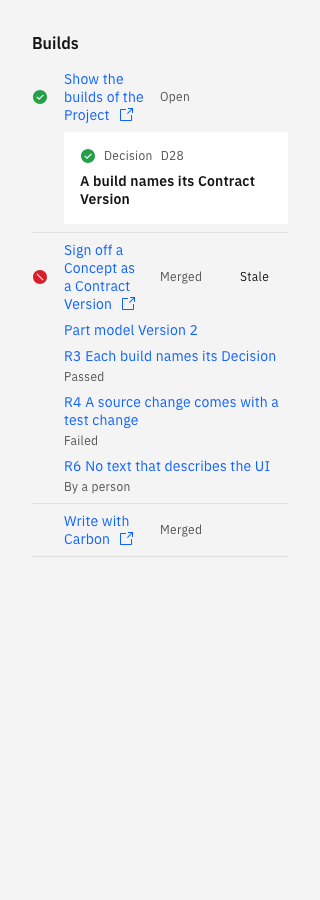
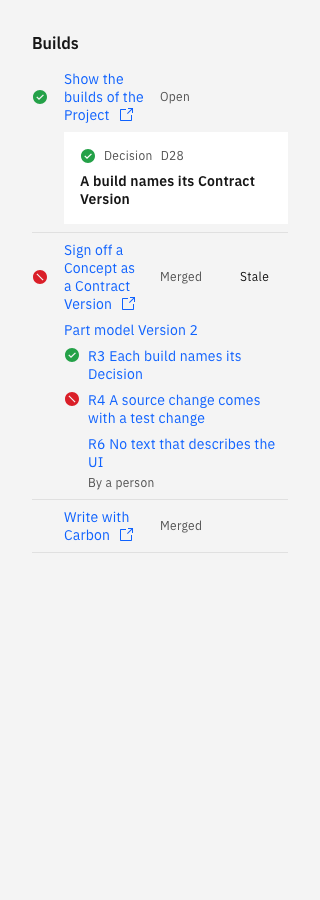
fix(gate): read each check, and show a failed Guardrail with a sign
The gate reads each page of the check runs, so a failed run after the
first 100 counts. A skipped check waits, it does not pass. When GitHub
does not answer, the gate still gives its result and each Guardrail
that names a check waits.

The Build section shows a passed and a failed Guardrail with the signs
of the gate. A Guardrail with no result keeps its word.

Refs #339
Decision: glue/D59

Changed region(s): [[0.1875, 0.3733, 0.875, 0.6222], [0.5, 0.56, 0.625, 0.5911]]

diff --git a/src/design-system/builds.tsx b/src/design-system/builds.tsx
@@ -27,7 +27,7 @@ export type BuildGuardrail = {
   id: string
   title: string
   href: string
-  state: keyof typeof guardrailStates
+  state: keyof typeof guardrailSigns | keyof typeof guardrailWords
 }
 
 // One build: a pull request that stays in GitHub, with its address there.
@@ -47,28 +47,59 @@ export type BuildRow = {
 
 const states = { open: 'Open', merged: 'Merged' } as const
 
-// What the gate saw of a Guardrail: the result of its check, or that a
-// person enforces it.
-const guardrailStates = {
-  passed: 'Passed',
-  failed: 'Failed',
-  waiting: 'Waiting',
-  'by-person': 'By a person',
-} as const
-
 // Holds or breaks, with the signs of Trust.
 const gateSigns = {
   holds: { ...signs.solid, word: 'Holds' },
   breaks: { ...signs['not-ready'], word: 'Breaks' },
 }
 
-function GateSign({ gate }: { gate: keyof typeof gateSigns }) {
-  const { word, Glyph, className } = gateSigns[gate]
+// The result of the check of a Guardrail, with the signs of the gate.
+const guardrailSigns = {
+  passed: { ...gateSigns.holds, word: 'Passed' },
+  failed: { ...gateSigns.breaks, word: 'Failed' },
+}
 
+// A Guardrail with no result: its check has not ended, or a person enforces
+// it.
+const guardrailWords = {
+  waiting: 'Waiting',
+  'by-person': 'By a person',
+} as const
+
+function Sign({ word, Glyph, className }: (typeof gateSigns)['holds']) {
   return (
     <Glyph aria-label={word} className={className}>
       <title>{word}</title>
     </Glyph>
+  )
+}
+
+// One Guardrail: the sign of its result, its link, and its word when it has
+// no result. The slot of the sign keeps its width when there is none.
+function GuardrailItem({
+  guardrail,
+  onOpen,
+}: {
+  guardrail: BuildGuardrail
+  onOpen?: (event: MouseEvent<HTMLAnchorElement>) => void
+}) {
+  const { id, title, href, state } = guardrail
+  const hasResult = state === 'passed' || state === 'failed'
+
+  return (
+    <li className={styles.guardrail}>
+      <span className={styles.result}>
+        {hasResult && <Sign {...guardrailSigns[state]} />}
+      </span>
+      <span className={styles.guardrailName}>
+        <Link href={href} onClick={onOpen}>
+          {id} {title}
+        </Link>
+        {!hasResult && (
+          <span className={styles.label}>{guardrailWords[state]}</span>
+        )}
+      </span>
+    </li>
   )
 }
 
@@ -112,7 +143,7 @@ export function Builds({
             ({ number, url, title, state, stale, gate, ...named }) => (
               <li key={number} className={styles.build}>
                 <span className={styles.sign}>
-                  {gate && <GateSign gate={gate} />}
+                  {gate && <Sign {...gateSigns[gate]} />}
                 </span>
                 <Link
                   href={url}
@@ -156,20 +187,14 @@ export function Builds({
                   {named.guardrails.length > 0 && (
                     <ul aria-label="Guardrails" className={styles.guardrails}>
                       {named.guardrails.map((guardrail) => (
-                        <li key={guardrail.id} className={styles.guardrail}>
-                          <Link
-                            href={guardrail.href}
-                            onClick={
-                              onOpenGuardrail &&
-                              ((event) => onOpenGuardrail(guardrail, event))
-                            }
-                          >
-                            {guardrail.id} {guardrail.title}
-                          </Link>{' '}
-                          <span className={styles.label}>
-                            {guardrailStates[guardrail.state]}
-                          </span>
-                        </li>
+                        <GuardrailItem
+                          key={guardrail.id}
+                          guardrail={guardrail}
+                          onOpen={
+                            onOpenGuardrail &&
+                            ((event) => onOpenGuardrail(guardrail, event))
+                          }
+                        />
                       ))}
                     </ul>
                   )}

diff --git a/src/github/client.ts b/src/github/client.ts
@@ -40,7 +40,7 @@ export type GithubClient = {
     repository: string,
     text: string,
   ) => Promise<PullRequest[]>
-  // The checks on the head commit of the pull request.
+  // Each check on the head commit of the pull request.
   listCheckRuns: (repository: string, number: number) => Promise<CheckRun[]>
 }
 
@@ -81,8 +81,10 @@ type ListedCheckRun = {
   conclusion: string | null
 }
 
-// The conclusions of a check that GitHub takes as passed.
-const PASSED = ['success', 'neutral', 'skipped']
+// The conclusions of a check that count as passed.
+const PASSED = ['success', 'neutral']
+// A check that GitHub skipped checked nothing: it waits.
+const SKIPPED = 'skipped'
 
 // A pull request that was closed with no merge is not a build.
 function toPullRequests(listed: ListedPullRequest[]): PullRequest[] {
@@ -191,13 +193,21 @@ export function createGithubClient(): GithubClient {
       const pull = await fetchGithub(`/repos/${repository}/pulls/${number}`)
       await validateResponse(pull, 'read pull request')
       const { head }: { head: { sha: string } } = await pull.json()
-      const response = await fetchGithub(
-        `/repos/${repository}/commits/${head.sha}/check-runs?per_page=${PAGE_SIZE}`,
-      )
-      await validateResponse(response, 'list check runs')
-      const listed: { check_runs: ListedCheckRun[] } = await response.json()
-      return listed.check_runs.map(({ name, status, conclusion }) => {
-        if (status !== 'completed') return { name, state: 'waiting' }
+      const listed: ListedCheckRun[] = []
+      // A page that is not full is the last one.
+      for (let page = 1, full = true; full; page += 1) {
+        const response = await fetchGithub(
+          `/repos/${repository}/commits/${head.sha}/check-runs?per_page=${PAGE_SIZE}&page=${page}`,
+        )
+        await validateResponse(response, 'list check runs')
+        const found: { check_runs: ListedCheckRun[] } = await response.json()
+        listed.push(...found.check_runs)
+        full = found.check_runs.length === PAGE_SIZE
+      }
+      return listed.map(({ name, status, conclusion }) => {
+        if (status !== 'completed' || conclusion === SKIPPED) {
+          return { name, state: 'waiting' }
+        }
         const passed = conclusion !== null && PASSED.includes(conclusion)
         return { name, state: passed ? 'passed' : 'failed' }
       })

diff --git a/src/github/client.test.ts b/src/github/client.test.ts
@@ -156,15 +156,17 @@ describe('searchPullRequests', () => {
 describe('listCheckRuns', () => {
   const PULL_URL = `${REPOSITORY_URL}/pulls/12`
   const CHECKS_URL = `${REPOSITORY_URL}/commits/abc123/check-runs?per_page=100`
+  const passed = { name: 'verify', status: 'completed', conclusion: 'success' }
 
   it('reads the checks on the head commit of the pull request, each with its state', async () => {
     stubGithub({
       [`GET ${PULL_URL}`]: [200, { head: { sha: 'abc123' } }],
-      [`GET ${CHECKS_URL}`]: [
+      [`GET ${CHECKS_URL}&page=1`]: [
         200,
         {
           check_runs: [
-            { name: 'verify', status: 'completed', conclusion: 'success' },
+            passed,
+            { name: 'docs', status: 'completed', conclusion: 'neutral' },
             { name: 'ai-review', status: 'completed', conclusion: 'skipped' },
             { name: 'audit', status: 'completed', conclusion: 'failure' },
             { name: 'release', status: 'in_progress', conclusion: null },
@@ -180,9 +182,41 @@ describe('listCheckRuns', () => {
 
     expect(checks).toEqual([
       { name: 'verify', state: 'passed' },
-      { name: 'ai-review', state: 'passed' },
+      { name: 'docs', state: 'passed' },
+      { name: 'ai-review', state: 'waiting' },
       { name: 'audit', state: 'failed' },
       { name: 'release', state: 'waiting' },
+    ])
+  })
+
+  it('reads each page of the checks, so a check after the first 100 counts', async () => {
+    stubGithub({
+      [`GET ${PULL_URL}`]: [200, { head: { sha: 'abc123' } }],
+      [`GET ${CHECKS_URL}&page=1`]: [
+        200,
+        { check_runs: Array.from({ length: 100 }, () => passed) },
+      ],
+      [`GET ${CHECKS_URL}&page=2`]: [
+        200,
+        {
+          check_runs: [
+            { name: 'audit', status: 'completed', conclusion: 'failure' },
+          ],
+        },
+      ],
+    })
+
+    const checks = await createGithubClient().listCheckRuns(
+      'timschoch/glue',
+      12,
+    )
+
+    expect(checks).toHaveLength(101)
+    expect(checks[100]).toEqual({ name: 'audit', state: 'failed' })
+    expect(calls.map(({ url }) => url)).toEqual([
+      PULL_URL,
+      `${CHECKS_URL}&page=1`,
+      `${CHECKS_URL}&page=2`,
     ])
   })
 

diff --git a/src/design-system/builds.test.tsx b/src/design-system/builds.test.tsx
@@ -138,11 +138,15 @@ describe('Builds', () => {
     const first = within(guardrails[0]).getByRole('link')
     await userEvent.click(first)
 
-    expect(guardrails.map((guardrail) => guardrail.textContent)).toEqual([
-      'R1 Tests come first Passed',
-      'R2 No raw colour Failed',
-      'R3 No query over 200ms Waiting',
-      'R4 No text that describes the UI By a person',
+    expect(
+      guardrails.map(
+        (guardrail) => within(guardrail).getByRole('link').textContent,
+      ),
+    ).toEqual([
+      'R1 Tests come first',
+      'R2 No raw colour',
+      'R3 No query over 200ms',
+      'R4 No text that describes the UI',
     ])
     expect(first.getAttribute('href')).toBe('#R1')
     expect(onOpenGuardrail).toHaveBeenCalledWith(
@@ -152,6 +156,24 @@ describe('Builds', () => {
     expect(
       within(row(OPEN.title)).queryByRole('list', { name: 'Guardrails' }),
     ).toBeNull()
+  })
+
+  it('shows a passed and a failed Guardrail with the signs of the gate, and the other states as a word', () => {
+    render(<Builds builds={[OLD]} />)
+
+    const [passed, failed, waiting, byPerson] = within(
+      screen.getByRole('list', { name: 'Guardrails' }),
+    ).getAllByRole('listitem')
+    const holds = within(row(OLD.title)).getByRole('img', { name: 'Breaks' })
+
+    within(passed).getByRole('img', { name: 'Passed' })
+    expect(
+      within(failed).getByRole('img', { name: 'Failed' }).getAttribute('class'),
+    ).toBe(holds.getAttribute('class'))
+    expect(within(waiting).queryByRole('img')).toBeNull()
+    within(waiting).getByText('Waiting')
+    expect(within(byPerson).queryByRole('img')).toBeNull()
+    within(byPerson).getByText('By a person')
   })
 
   it('says that there are no builds, or why', () => {

diff --git a/src/db/gate.test.ts b/src/db/gate.test.ts
@@ -16,7 +16,7 @@ import {
 import { addProjectReference, setProductRepository } from './projects.ts'
 import * as schema from './schema.ts'
 import type { CheckRun } from '../github/client.ts'
-import { createFakeGithub } from '../test/github.ts'
+import { createFakeGithub, failingGithub } from '../test/github.ts'
 
 let client: PGlite
 let db: ReturnType<typeof drizzle<typeof schema>>
@@ -352,6 +352,23 @@ describe('validateBuild', () => {
       ])
 
       expect(gate.guardrails[0].state).toBe('waiting')
+    })
+
+    it('gives its result and waits for each check when GitHub does not answer', async () => {
+      const gate = await validateBuild(
+        db,
+        failingGithub,
+        'glue',
+        toBuild('Contract: videos@2'),
+        NOW,
+      )
+
+      expect(gate.result).toBe('holds')
+      expect(gate.reasons).toEqual([])
+      expect(gate.guardrails.map(({ id, state }) => [id, state])).toEqual([
+        ['R1', 'waiting'],
+        ['R2', 'by-person'],
+      ])
     })
 
     it('reads the checks of the build from GitHub', async () => {

diff --git a/src/db/gate.ts b/src/db/gate.ts
@@ -91,6 +91,7 @@ function findCheckState(name: string, checks: CheckRun[]): GuardrailState {
 
 // The Guardrails of the Contract Version, each with its state on the head
 // commit of the build. GitHub is asked only when a Guardrail names a check.
+// When GitHub does not answer, each of these Guardrails waits.
 async function listGuardrails(
   github: GithubClient,
   build: ValidatedBuild,
@@ -104,7 +105,9 @@ async function listGuardrails(
   const checks = guardrails.some(
     ({ enforcedBy }) => findCheckName(enforcedBy) !== undefined,
   )
-    ? await github.listCheckRuns(build.repository, build.number)
+    ? await github
+        .listCheckRuns(build.repository, build.number)
+        .catch((): CheckRun[] => [])
     : []
   return guardrails.map(({ id, title, concept, enforcedBy }) => {
     const name = findCheckName(enforcedBy)

diff --git a/src/builds-render.test.tsx b/src/builds-render.test.tsx
@@ -75,9 +75,8 @@ describe('the builds of a Project', () => {
       within(old).getByRole('list', { name: 'Guardrails' }),
     )
 
-    expect(
-      guardrails.getAllByRole('listitem').map((item) => item.textContent),
-    ).toEqual(['R1 No query over 200ms Failed'])
+    expect(guardrails.getAllByRole('listitem')).toHaveLength(1)
+    guardrails.getByRole('img', { name: 'Failed' })
     expect(
       guardrails
         .getByRole('link', { name: 'R1 No query over 200ms' })

diff --git a/src/design-system/builds.module.scss b/src/design-system/builds.module.scss
@@ -77,8 +77,20 @@
   }
 }
 
-// One Guardrail: its link, then its state.
+// One Guardrail: the sign of its result, then its link and its word. The
+// sign stays beside the first line of a link that wraps.
 .guardrail {
+  display: grid;
+  align-items: start;
+  gap: $spacing-03;
+  grid-template-columns: $spacing-05 minmax(0, 1fr);
+}
+
+.result {
+  display: flex;
+}
+
+.guardrailName {
   display: flex;
   flex-wrap: wrap;
   align-items: baseline;

diff --git a/src/contract-render.test.tsx b/src/contract-render.test.tsx
@@ -172,6 +172,7 @@ describe('the common flow of a Concept', () => {
               gate: {
                 result: 'holds' as const,
                 reasons: [],
+                guardrails: [],
                 checkedAt: '2026-10-05T09:00:00.000Z',
               },
             },

diff --git a/docs/contract-gate.md b/docs/contract-gate.md
@@ -88,6 +88,7 @@ The field `enforcedBy` of a Guardrail says who checks it:
 | `passed`    | Each check run of that name passed                     | Holds  |
 | `failed`    | A check run of that name failed                        | Breaks |
 | `waiting`   | The check run still runs, or no check run has the name | Holds  |
+| `waiting`   | GitHub skipped the check run, or GitHub did not answer | Holds  |
 | `by-person` | A person enforces the Guardrail                        | Holds  |
 
 A check run of the same job that calls the gate still runs at that time, so its Guardrail is `waiting`. Call the gate again after the checks end.
